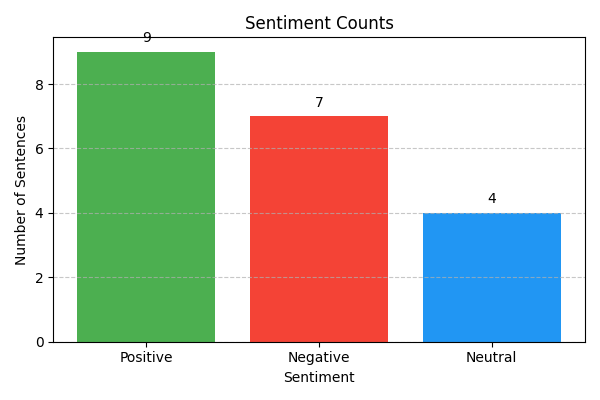
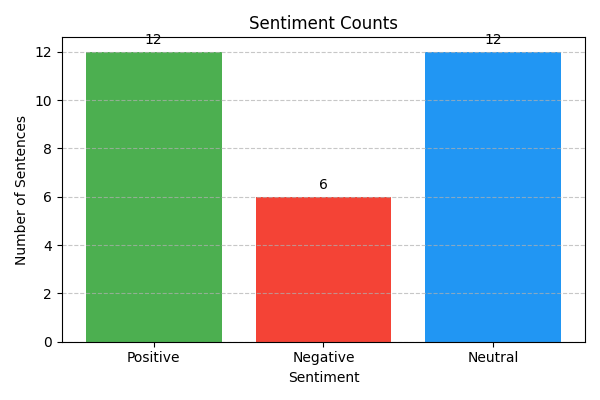
updated code for multilanguage

diff --git a/app.py b/app.py
@@ -1,80 +1,100 @@
-from flask import Flask, render_template, request, redirect, url_for
-from textblob import TextBlob
+from flask import Flask, render_template, request
 import matplotlib
-matplotlib.use('Agg')  # Use non-interactive backend for charts
+matplotlib.use('Agg')
 import matplotlib.pyplot as plt
 import os
+import spacy
+from vaderSentiment.vaderSentiment import SentimentIntensityAnalyzer
+from deep_translator import GoogleTranslator  # Install with `pip install deep_translator`
+
+# Load spaCy model
+nlp = spacy.load("en_core_web_sm")
+vader = SentimentIntensityAnalyzer()
+
+def translate_text(text):
+    """Detects language and translates to English using GoogleTranslator."""
+    try:
+        translated_text = GoogleTranslator(source='auto', target='en').translate(text)
+        return translated_text if translated_text else text  # Fallback to original if translation fails
+    except Exception as e:
+        print(f"Translation error: {e}")
+        return text  # Fallback to original text
+
+def analyze_sentiment(sentence):
+    """Translates text and applies sentiment analysis."""
+    translated_sentence = translate_text(sentence)  # Convert non-English text to English
+    if not translated_sentence:  # Handle empty translations
+        return "Neutral", "😐", "#2196F3"
+
+    doc = nlp(translated_sentence)
+    sentiment_score = vader.polarity_scores(translated_sentence)["compound"]
+
+    negation_words = {"not", "never", "no"}
+    negated = any(token.text in negation_words for token in doc)
+
+    if sentiment_score > 0.2:
+        sentiment = "Positive" if not negated else "Negative"
+        emoji = "😊" if not negated else "😢"
+        color = "#4CAF50" if not negated else "#F44336"
+    elif sentiment_score < -0.2:
+        sentiment = "Negative" if not negated else "Positive"
+        emoji = "😢" if not negated else "😊"
+        color = "#F44336" if not negated else "#4CAF50"
+    else:
+        sentiment = "Neutral"
+        emoji = "😐"
+        color = "#2196F3"
+
+    return sentiment, emoji, color
 
 app = Flask(__name__)
 
 @app.route("/", methods=["GET", "POST"])
 def index():
     results = []
-    sentiment_counts = {"Positive": 0, "Negative": 0, "Neutral": 0}  # Initialize sentiment counters
-    chart_path = None  # Initialize the pie chart path
-    bar_chart_path = None  # Initialize the bar chart path
-    
+    sentiment_counts = {"Positive": 0, "Negative": 0, "Neutral": 0}
+    chart_path, bar_chart_path = None, None
+
     if request.method == "POST":
-        text = request.form["text"]
-        sentences = [s.strip() for s in text.splitlines() if s.strip()]  # Split on newlines
-        
-        # Analyze each sentence
+        text = request.form.get("text", "").strip()  # Prevent missing input error
+        sentences = [s.strip() for s in text.splitlines() if s.strip()]
+
         for sentence in sentences:
-            analysis = TextBlob(sentence).sentiment.polarity
-            if analysis > 0:
-                sentiment = "Positive"
-                color = "#4CAF50"  # Green
-                sentiment_counts["Positive"] += 1
-            elif analysis < 0:
-                sentiment = "Negative"
-                color = "#F44336"  # Red
-                sentiment_counts["Negative"] += 1
-            else:
-                sentiment = "Neutral"
-                color = "#2196F3"  # Blue
-                sentiment_counts["Neutral"] += 1
-            results.append({"sentence": sentence, "sentiment": sentiment, "color": color})
-        
-        # Create static directory if it doesn't exist
+            sentiment, emoji, color = analyze_sentiment(sentence)
+            sentiment_counts[sentiment] += 1
+            results.append({"sentence": sentence, "sentiment": sentiment, "emoji": emoji, "color": color})
+
         static_dir = "static"
-        if not os.path.exists(static_dir):
-            os.makedirs(static_dir)
-        
-        # Generate pie chart
-        labels = list(sentiment_counts.keys())
-        sizes = list(sentiment_counts.values())
-        colors = ["#4CAF50", "#F44336", "#2196F3"]  # Matching CSS colors
-        
-        if sum(sizes) > 0:  # Ensure there is at least one non-zero value
+        os.makedirs(static_dir, exist_ok=True)
+
+        labels, sizes = list(sentiment_counts.keys()), list(sentiment_counts.values())
+        colors = ["#4CAF50", "#F44336", "#2196F3"]
+
+        if sum(sizes) > 0:
+            # Pie Chart
             plt.figure(figsize=(6, 6))
-            plt.pie(
-                sizes,
-                labels=labels,
-                colors=colors,
-                autopct=lambda p: f'{p:.1f}% ({int(p * sum(sizes) / 100)})',  # Show percentages and counts
-                startangle=90
-            )
-            plt.axis("equal")  # Ensure the pie chart is a perfect circle
-            chart_path = "pie_chart.png"  # Directly use the image filename
-            plt.savefig(os.path.join(static_dir, chart_path))
+            plt.pie(sizes, labels=labels, colors=colors,
+                    autopct=lambda p: f'{p:.1f}% ({int(p * sum(sizes) / 100)})', startangle=90)
+            plt.axis("equal")
+            chart_path = "static/pie_chart.png"
+            plt.savefig(chart_path)
             plt.close()
 
-            # Generate bar chart
+            # Bar Chart
             plt.figure(figsize=(6, 4))
             bars = plt.bar(labels, sizes, color=colors)
             plt.title("Sentiment Counts")
             plt.xlabel("Sentiment")
             plt.ylabel("Number of Sentences")
             plt.grid(axis='y', linestyle='--', alpha=0.7)
-            
-            # Annotate with numbers on top of bars
+
             for bar in bars:
                 yval = bar.get_height()
                 plt.text(bar.get_x() + bar.get_width()/2, yval + 0.2, int(yval), ha='center', va='bottom')
-            
-            bar_chart_path = "bar_chart.png"  # Directly use the image filename
+
+            bar_chart_path = "static/bar_chart.png"
             plt.tight_layout()
-            plt.savefig(os.path.join(static_dir, bar_chart_path))
+            plt.savefig(bar_chart_path)
             plt.close()
 
     return render_template("index.html", results=results, chart_path=chart_path, bar_chart_path=bar_chart_path)
@@ -86,6 +106,5 @@ def charts():
     
     # Render the charts page with the images
     return render_template("charts.html", chart_path=chart_path, bar_chart_path=bar_chart_path)
-
 if __name__ == "__main__":
     app.run(debug=True)
